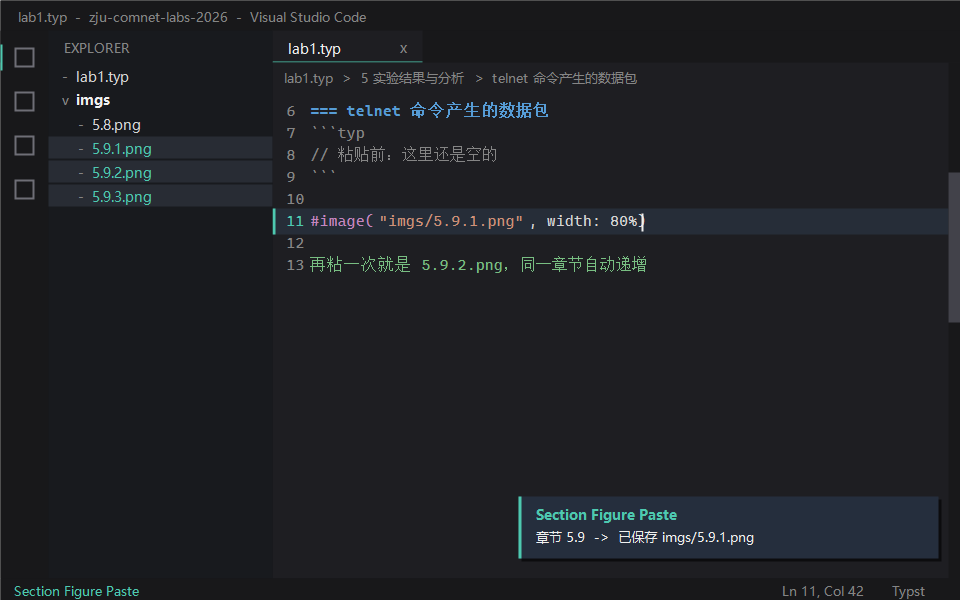
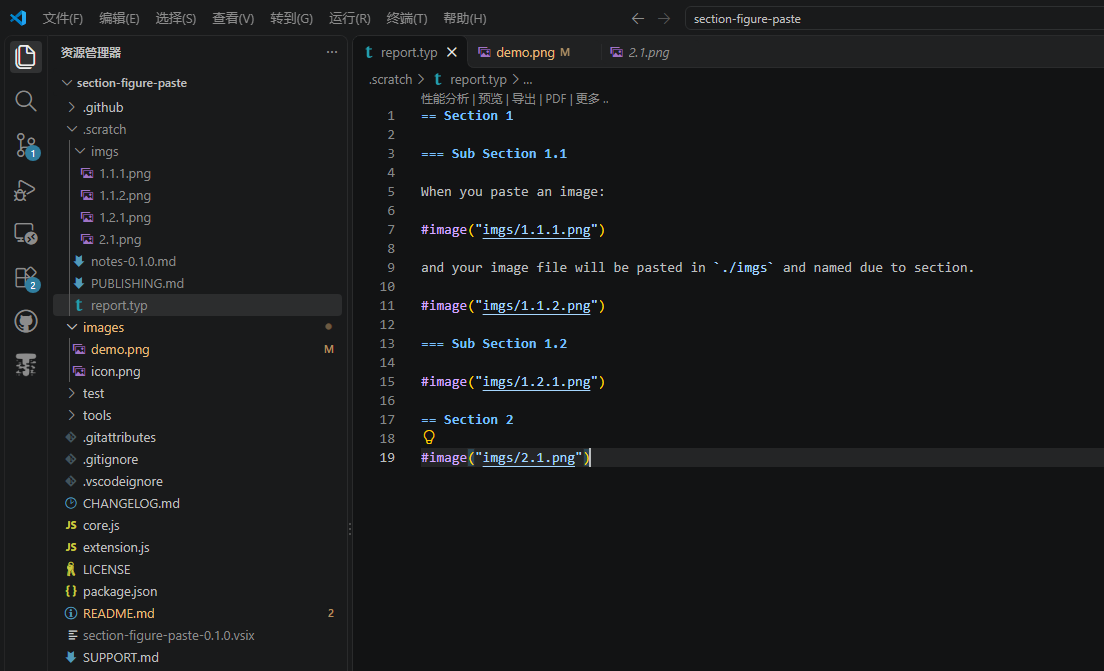
docs: 演示图更新为真实截图，README 示例同步
旧图是手绘示意图；新图为 report.typ 的实际界面截图
（=== Sub Section 1.1 → imgs/1.1.1.png 等），README 开头示例、
图注与「已知限制」里的手绘说明一并修正。

diff --git a/README.md b/README.md
@@ -2,9 +2,9 @@
 
 [![test](https://github.com/EeeMaoY/section-figure-paste/actions/workflows/test.yml/badge.svg)](https://github.com/EeeMaoY/section-figure-paste/actions/workflows/test.yml)
 
-![演示：在 === telnet 命令产生的数据包 里粘贴，图片存成 imgs/5.9.1.png](images/demo.png)
+![演示：在 === Sub Section 1.1 里粘贴，图片存成 imgs/1.1.1.png](images/demo.png)
 
-粘贴图片时**按光标所处章节自动命名**的 VS Code 扩展：在 `=== telnet 命令产生的数据包` 里 Ctrl+V，图片会存成 `imgs/5.9.1.png`（该章节第 1 张图），并在光标处插入 `#image("imgs/5.9.1.png", width: 80%)`；同一章节继续粘贴就是 `5.9.2.png`、`5.9.3.png`…… Markdown 文档同样支持。
+粘贴图片时**按光标所处章节自动命名**的 VS Code 扩展：在 `=== Sub Section 1.1` 里 Ctrl+V，图片会存成 `imgs/1.1.1.png`（该章节第 1 张图），并在光标处插入 `#image("imgs/1.1.1.png")`；同一章节继续粘贴就是 `1.1.2.png`、`1.1.3.png`……直接在 `== Section 2` 标题下粘贴则是 `2.1.png`。 Markdown 文档同样支持。
 
 ## 为什么需要它
 
@@ -118,7 +118,7 @@ node tools/update-user-settings.js --write   # 把必需开关写进用户 setti
 
 ## 章节号是怎么算的
 
-以浙大实验报告模板（`theme == "lab"`）的 lab1 报告为例：
+以一份计算机网络实验报告模板的 lab1 报告为例：
 
 | 文档结构 | 章节号 |
 | --- | --- |
@@ -157,7 +157,6 @@ node test/extension.test.js   # 用假的 vscode 模块把"激活 → 粘贴 →
 - 粘贴**工作区内**已有的图片文件时，本扩展也会复制一份到 `imgs/` 并重命名（Tinymist 原本是直接引用原位置）。
 - 重命名磁盘上的图片不会自动改写文档里的引用——不过 Tinymist 自己支持"文件重命名/移动时更新链接"，在资源管理器里 F2 改名即可。
 - 拖拽多条文件、或粘贴非图片文件时，本扩展不接管，交回给编辑器默认行为。
-- 上面那张演示图是按实际界面手绘的示意图（不是录屏）。想自己录 GIF 的话，用 ScreenToGif 之类录下"输入 `=== 标题` → Ctrl+V → 看文件名"这一段即可。
 
 ## 反馈
 
